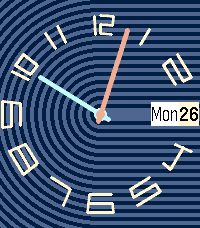
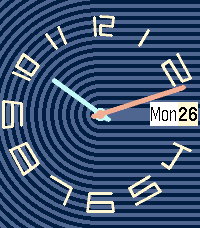
released from this commit

diff --git a/src/c/sea-lines.c b/src/c/sea-lines.c
@@ -86,7 +86,7 @@ static void draw_hour(GContext* ctx, GRect bounds, GPoint center, int vcr, struc
   graphics_draw_line(
     ctx,
     cartesian_from_polar_trigangle(center, -10, angle),
-    cartesian_from_polar_trigangle(center, vcr - 28, angle)
+    cartesian_from_polar_trigangle(center, 6 * vcr / 10, angle)
   );
   graphics_fill_circle(ctx, center, 6);
 }
@@ -101,7 +101,7 @@ static void draw_minute(GContext* ctx, GRect bounds, GPoint center, int vcr, str
   graphics_draw_line(
     ctx,
     cartesian_from_polar_trigangle(center, -8, angle),
-    cartesian_from_polar_trigangle(center, vcr - 10, angle)
+    cartesian_from_polar_trigangle(center, 9 * vcr / 10, angle)
   );
   graphics_fill_circle(ctx, center, 4);
 }
@@ -114,7 +114,7 @@ static void update_layer(Layer* layer, GContext* ctx) {
   }
 
   GRect bounds = layer_get_bounds(layer);
-  int vcr = min(bounds.size.h, bounds.size.w) / 2 - 1;
+  int vcr = min(bounds.size.h, bounds.size.w) / 2 - 2;
   GPoint center = grect_center_point(&bounds);
   draw_bg(ctx, bounds, center, vcr);
   draw_ticks(ctx, bounds, center, vcr, now);
